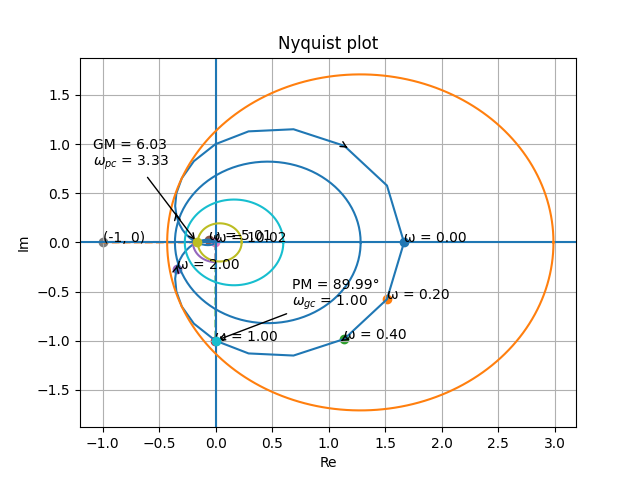
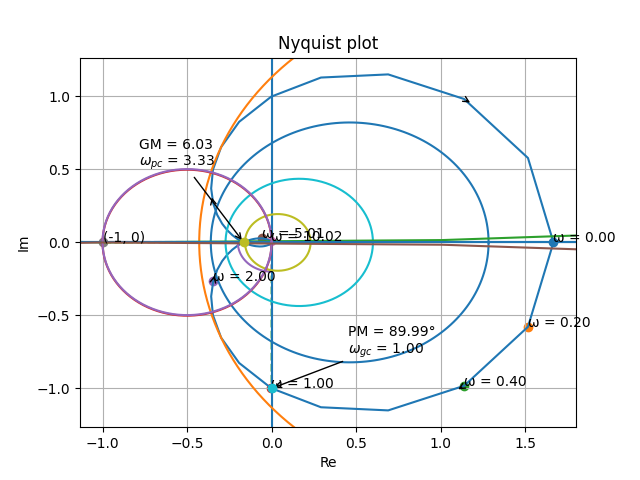
Added functionality for N-cricle plotting in Nyquist Analysis.

diff --git a/python/plotting/plot_nyquist_analysis.py b/python/plotting/plot_nyquist_analysis.py
@@ -328,6 +328,8 @@ def generate_n_circle_points(geometry, num_points):
 
   return x_values, y_values
 
+# ---------- Plotting the Nyquist, the M circle, and the N circle ----------
+
 def plot_nyquist(s_real_values, s_imaginary_values, mapped_real_values, mapped_imaginary_values, phase_crossover_frequency, phase_crossover_real, phase_crossover_imaginary, gain_margin, gain_crossover_frequency, gain_crossover_real, gain_crossover_imaginary, phase_margin):
   plt.plot(mapped_real_values, mapped_imaginary_values)
 
@@ -624,7 +626,36 @@ def plot_m_circles(m_levels, num_points):
     # Defensive case in case an invalid geometric type is catched
     raise ValueError("There exists an invalid geometric type.")
 
+def plot_n_circles(n_levels, num_points):
+  # Validate the inputs
+  if len(n_levels) == 0:
+    raise ValueError("There is no n-levels passed in.")
 
+  if num_points < 2:
+    raise ValueError("The number of points must be at least 2.")
+
+  # Iterate through each n_level
+  for N in n_levels:
+    # Obtain the geometry via calculate_n_circle
+    geometry = calculate_n_circle(N)
+
+    '''
+    The special case here, compared to m circles is that at N = 1, it is the REAL AXIS,
+    unlike at M = 1, at which the geometry was a vertical line.
+    '''
+    if geometry["type"] == "line":
+      plt.axhline(
+        y = geometry["y"]
+      )
+      continue
+
+    if geometry["type"] == "circle":
+      x_values, y_values = generate_n_circle_points(geometry, num_points)
+      plt.plot(x_values, y_values)
+      continue
+
+    # If the geometry is not either a line or a cricle, raise a value error
+    raise ValueError("Invalid geometric type.")
 
 def main():
   # Read Nyquist path data
@@ -651,6 +682,7 @@ def main():
     "output/nyquist_metrics.csv"
   )
 
+  # ----- Obtaining and plotting M values -----
   # Calculate M values from the mapped Nyquist response
   m_values = calculate_m_values(
     mapped_real_values,
@@ -669,10 +701,26 @@ def main():
     5
   )
 
-  # Create one shared matplotlib figure
+  # ----- Obtaining and plotting M values -----
+  # Calculate N values
+  n_values = calculate_n_values(
+    mapped_real_values,
+    mapped_imaginary_values
+  )
+
+  # Determined observed N range
+  min_n, max_n = get_n_range(n_values)
+
+  # Generate desired N levels
+  n_levels = generate_n_levels(
+    min_n,
+    max_n,
+    5
+  )
+
+  # ----- Figure 1: Zoomed Nyquist analysis -----
   plt.figure()
 
-  # Plot Nyquist Response
   plot_nyquist(
     s_real_values,
     s_imaginary_values,
@@ -688,19 +736,66 @@ def main():
     phase_margin
   )
 
-  # Overlay the M circles on the same figure
+  # Preserve the normal Nyquist viewing window
+  x_limits = plt.xlim()
+  y_limits = plt.ylim()
+
   plot_m_circles(
     m_levels,
     200
   )
 
-  # Save and display only after every overlay
+  plot_n_circles(
+    n_levels,
+    200
+  )
+
+  # Restore the zoomed Nyquist view
+  plt.xlim(x_limits)
+  plt.ylim(y_limits)
+
   plt.savefig(
     "output/nyquist_plot.png"
   )
 
   plt.show()
 
+  # ----- Figure 2: Full N-cricle geometry -----
+  plt.figure()
+
+  # Plot the basic Nyquist response
+  plt.plot(
+    mapped_real_values,
+    mapped_imaginary_values
+  )
+
+  # Mark the critical point
+  plt.scatter(-1, 0)
+  plt.annotate(
+    "(-1, 0)",
+    (-1, 0)
+  )
+
+  # Draw the real and imaginary axes
+  plt.axhline(y=0)
+  plt.axvline(x=0)
+
+  # Overlay the N circles
+  plot_n_circles(
+    n_levels,
+    200
+  )
+
+  plt.xlabel("Re")
+  plt.ylabel("Im")
+  plt.title("Nyquist Plot with N-Circles")
+  plt.grid()
+
+  plt.savefig(
+    "output/nyquist_n_circles.png"
+  )
+
+  plt.show()
 
 if __name__ == "__main__":
   main()
